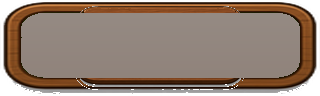
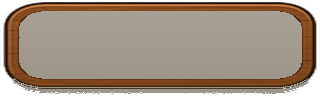
Fix Bauen chrome: single face like left-rail buttons
Rebuild btn-bauen from clean kaufen wood rim (no rim holes or silver
plate), use a brighter amber face, and force transparent live-text
overlays so the right rail no longer looks like stacked buttons.

diff --git a/game/src/style.css b/game/src/style.css
@@ -570,6 +570,29 @@ select {
   cursor: pointer;
   overflow: hidden;
   container-type: inline-size;
+  appearance: none;
+  -webkit-appearance: none;
+}
+
+/* Bauen/Upgrade: ein Chrome wie links — kein zweites Face hinter Live-Text */
+.match-shell.matchday .build-card .ar-cost-btn,
+.match-shell.matchday .upgrade-panel .ar-cost-btn {
+  background-color: transparent;
+  box-shadow: none;
+  filter: none;
+  outline: none;
+}
+.match-shell.matchday .build-card .ar-cost-btn .inner,
+.match-shell.matchday .upgrade-panel .ar-cost-btn .inner {
+  background: transparent !important;
+  background-color: transparent !important;
+  background-image: none !important;
+  box-shadow: none !important;
+  border: 0 !important;
+  border-radius: 0 !important;
+  /* kein extra Containment-Plate — nur Live-Text auf Face */
+  container-type: inline-size;
+  text-shadow: 0 1px 0 rgba(0, 0, 0, 0.4);
 }
 
 .match-shell.matchday .build-card .build-top {
@@ -782,7 +805,12 @@ select {
   container-type: inline-size;
   font-size: clamp(9px, 12cqw, 14px);
   overflow: hidden;
-  background: transparent;
+  background: transparent !important;
+  background-color: transparent !important;
+  background-image: none !important;
+  box-shadow: none !important;
+  border: 0 !important;
+  border-radius: 0;
   pointer-events: none;
 }
 .match-shell.matchday .ar-cost-btn .txt,
@@ -792,6 +820,10 @@ select {
   line-height: 1;
   letter-spacing: 0.02em;
   white-space: nowrap;
+  background: transparent !important;
+  background-color: transparent !important;
+  box-shadow: none !important;
+  border: 0 !important;
 }
 .match-shell.matchday .ar-cost-btn .txt .short { display: none; }
 .match-shell.matchday .ar-cost-btn .txt .full { display: inline; }
